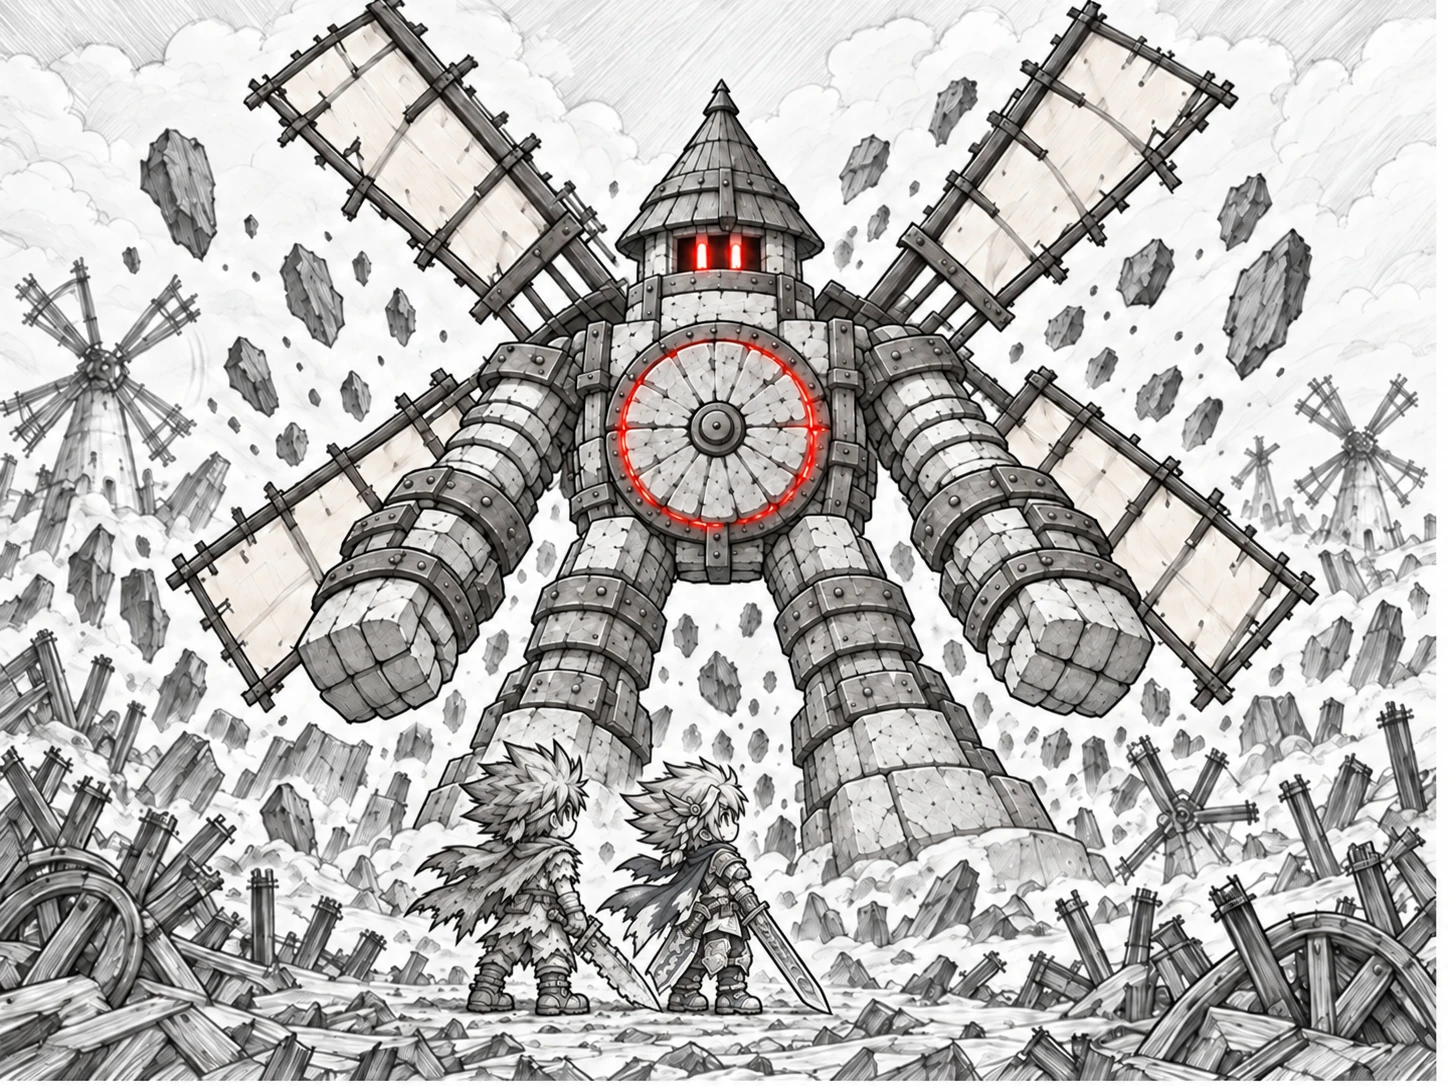
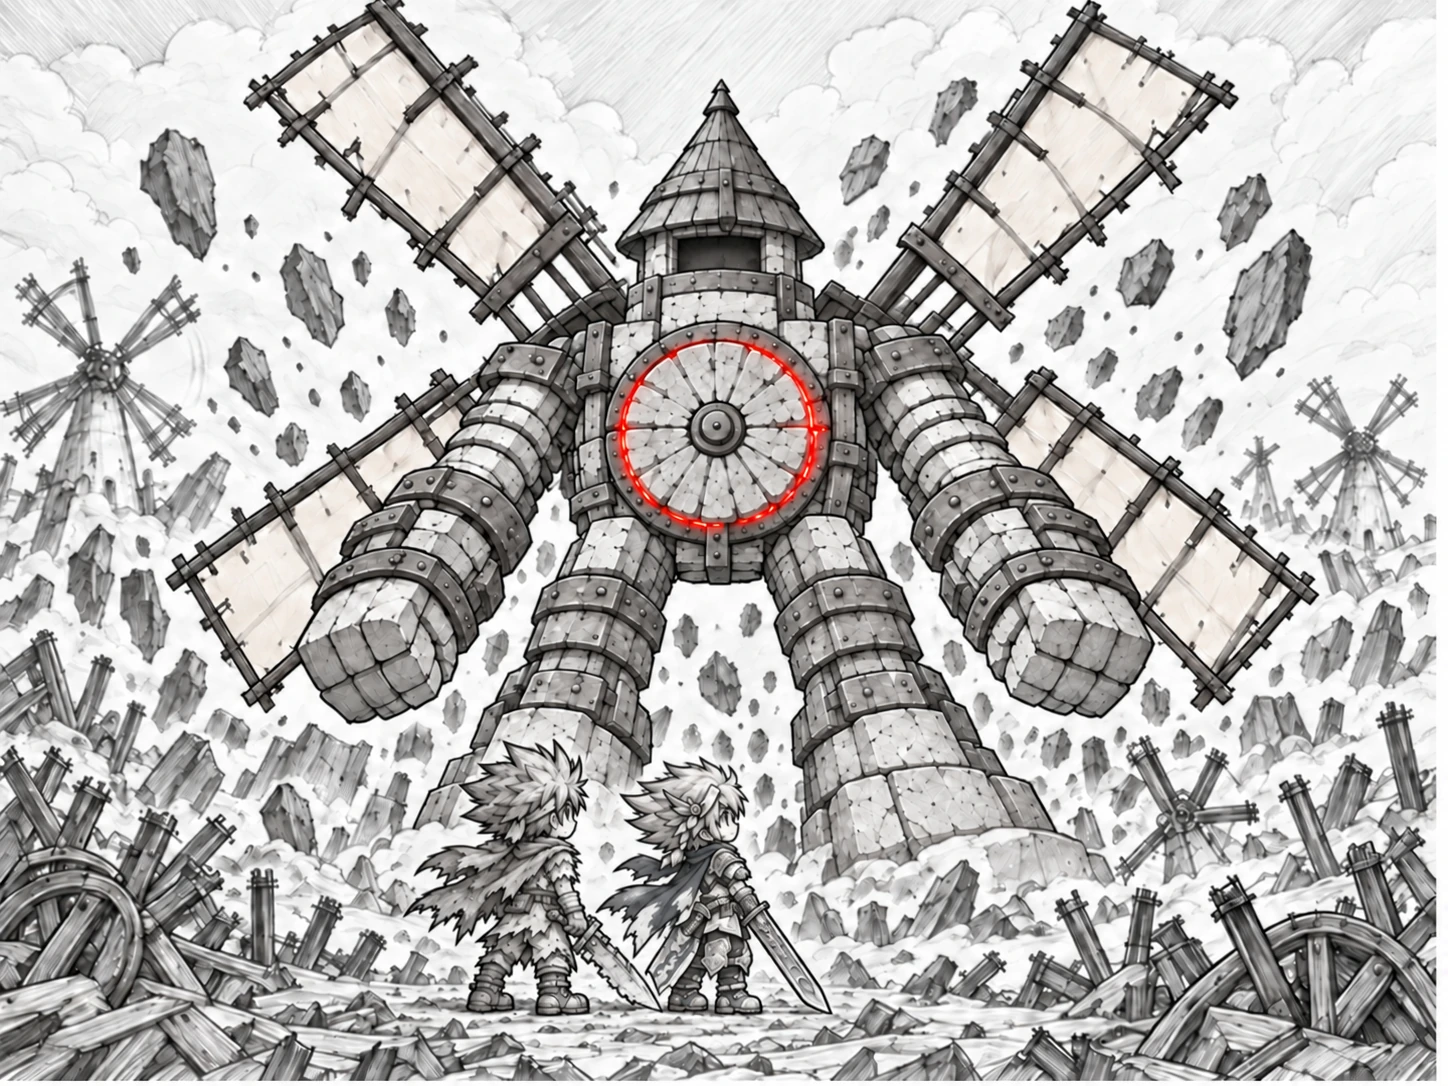
반전 4 최종 그림(눈 없는 창문) + 창문 안 붉은 두 눈이 깜빡임
- r4_eye: 붉은 세로 눈 + 빛 번짐, 창문(678~760 × 237~272) 안에 두 개
- 깜빡임: 3.6초마다 두 번 감았다 뜸(세로로 접힘) + 은은한 맥박

Claude-Session: https://claude.ai/code/session_01UsiBrPk9kwis6B71C6gGhW

diff --git a/assets/art/story/live/scenes.js b/assets/art/story/live/scenes.js
@@ -83,7 +83,7 @@ reveal_04:{img:'../reveal_04.webp',cam:{z:1.06,x:50,y:30,d:10},shake:1.2,
         {t:'hair',x:525,y:800,rx:90,ry:65,an:850,a:2,f:.4},
         {t:'hair',x:690,y:800,rx:90,ry:65,an:850,a:2,f:.4,ph:1},
         {t:'flag',x:470,y:880,rx:80,ry:70,an:540,a:2.5,f:.4}],
-  fx:[{i:'r4_fx1.webp',x:667,y:225,w:42,k:'flick',v:{d:'2.2s'}},{i:'r4_fx0.webp',x:712,y:225,w:42,k:'flick',v:{d:'2.2s',dl:'-.3s'}},
+  fx:[{i:'r4_eye.webp',x:676,y:219,w:48,k:'blink',v:{d:'3.6s'}},{i:'r4_eye.webp',x:714,y:219,w:48,k:'blink',v:{d:'3.6s'}},   /* 창문(678~760 × 237~272) 안 두 눈 */
       {i:'r4_fx2.webp',x:591,y:301,w:248,k:'pulse',v:{d:'1.8s',lo:.3,hi:1}}],
   emit:[{i:['r4_rock4.webp','r4_rock6.webp','r4_rock7.webp','r4_rock8.webp','r4_rock9.webp','r4_rock10.webp','r4_rock11.webp','r4_rock12.webp'],n:12,a:[0,-220,1448,-120],w:[24,70],k:'fall',d:[3,6],dy:1350,dx:60,b:'n'}]},
 ending_01:{img:'../ending_01.webp',cam:{z:1.05,x:54,y:48},shake:2,

diff --git a/assets/art/story/live/live.js b/assets/art/story/live/live.js
@@ -29,6 +29,8 @@ const CSS=`.lmL{position:absolute;inset:0;overflow:hidden;background:transparent
 @keyframes lmPulse{0%,100%{opacity:var(--lo,.35)}50%{opacity:var(--hi,1)}}
 .lmL .k-flick{animation:lmFlick var(--d,1.6s) steps(1) var(--dl,0s) infinite both}
 @keyframes lmFlick{0%{opacity:var(--hi,1)}23%{opacity:var(--lo,.3)}31%{opacity:var(--hi,1)}64%{opacity:.6}72%{opacity:var(--hi,1)}}
+.lmL .k-blink{transform-origin:50% 50%;animation:lmBlink var(--d,3.6s) ease-in-out var(--dl,0s) infinite both}
+@keyframes lmBlink{0%,100%{opacity:.85;scale:1 1}40%{opacity:1;scale:1 1}44%{scale:1 .08;opacity:.6}48%{scale:1 1;opacity:1}52%{scale:1 .08}56%{scale:1 1;opacity:1}75%{opacity:.75}}
 .lmL .k-spin{animation:lmSpin var(--d,20s) linear infinite}
 @keyframes lmSpin{to{rotate:var(--a,360deg)}}
 .lmL .k-rise{opacity:0;animation:lmRise var(--d,3s) ease-in-out var(--dl,0s) infinite}
